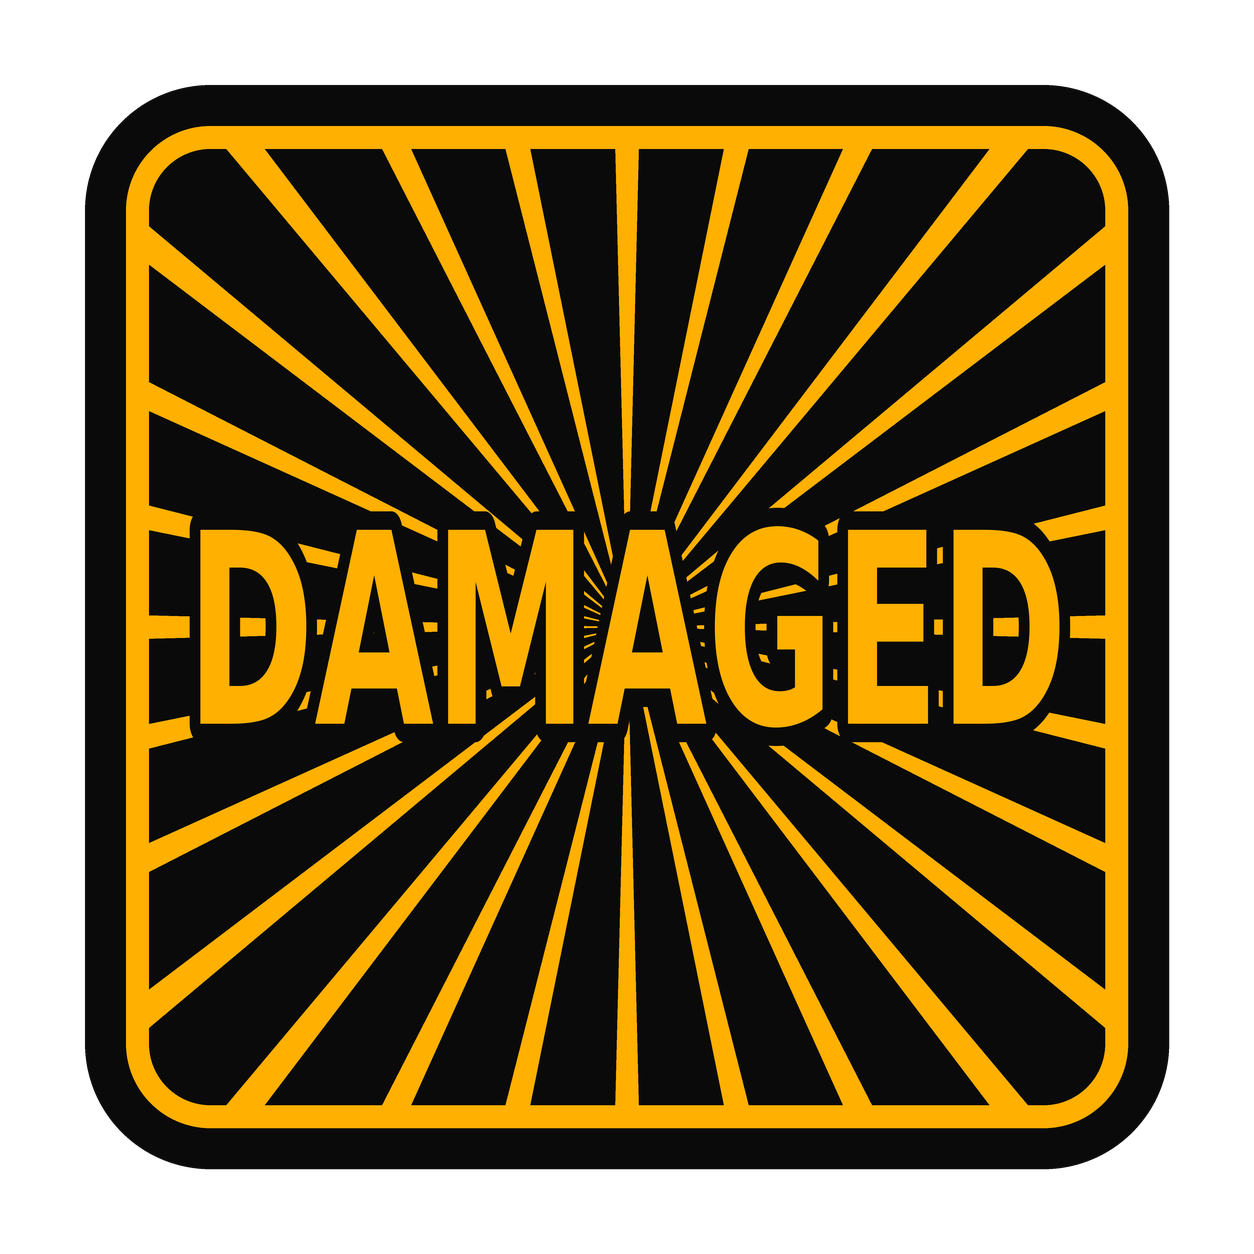
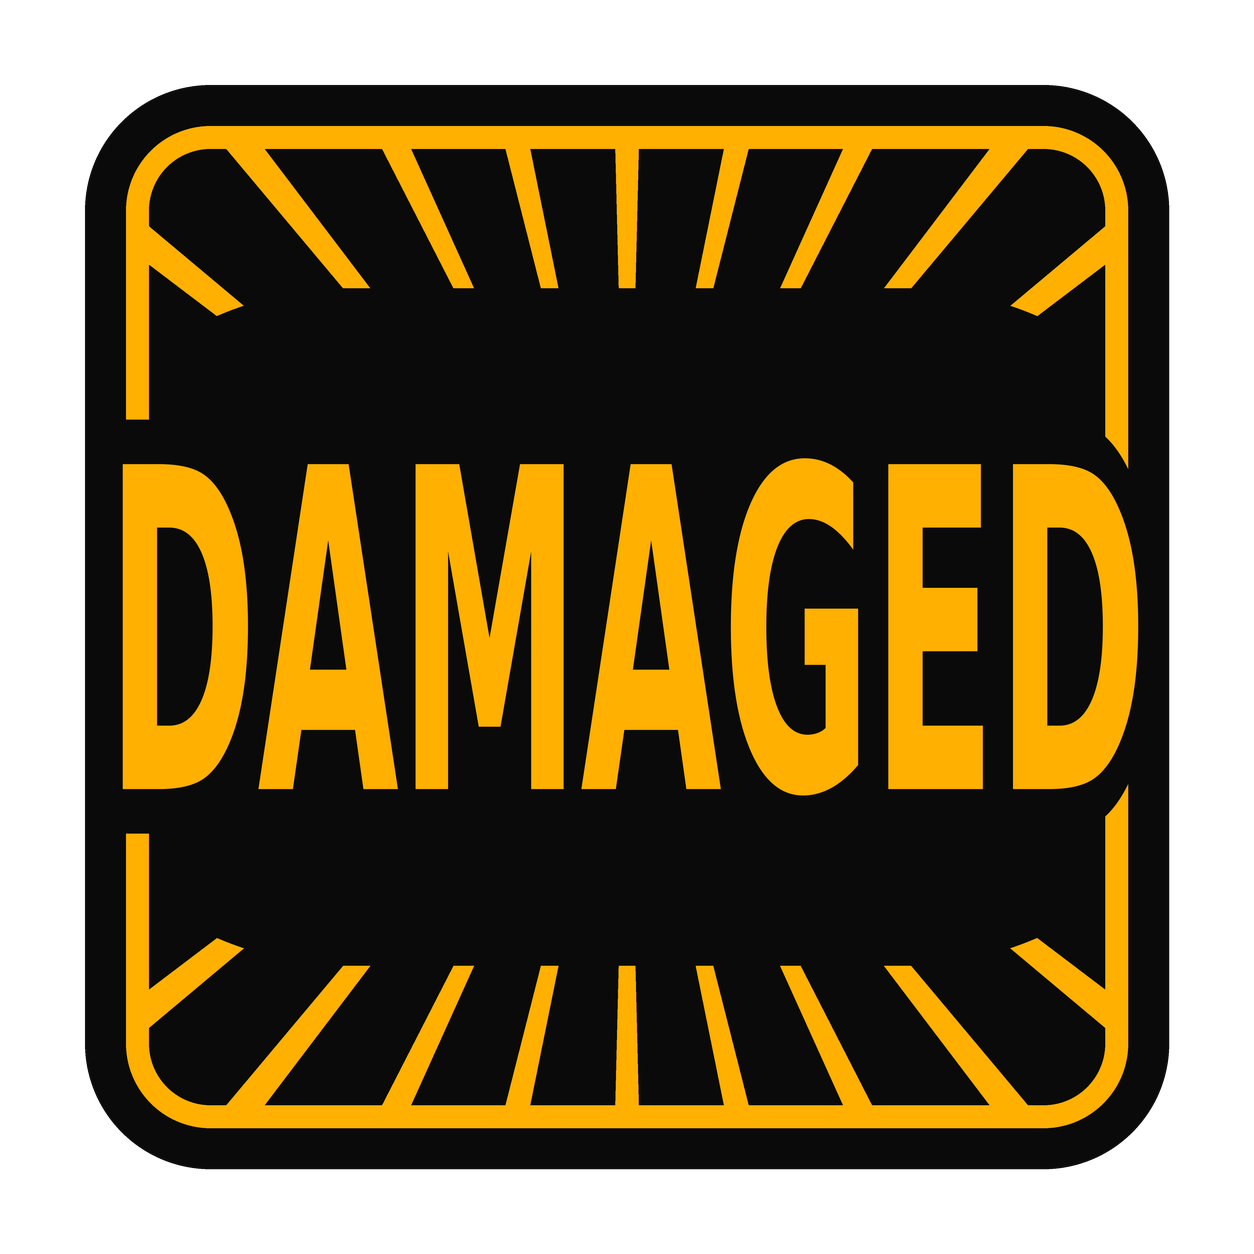
Give a Cyborg's exhaustion token count its own teal colour
The word on the Exhausted/Injured/Drained/Damaged tokens also grew and
lost the sunburst rays crossing it, since the first cut read fine at
the 1254px canvas but smeared into noise once downsampled to the 26px
the board actually draws it at.

A Cyborg's own tally now reads as one colour with their Drained badge
instead of an amber count sitting beside a teal condition -- a recolour
of the existing triangle rather than a redraw, so every anti-aliased
edge still matches the icon it sits beside on the card. Cyborg mid-count
(tokens above zero but below the Drained threshold) now also counts
toward `cyborg_condition_ids`, which used to answer only Exhausted or
Injured and so left that state drawing the amber triangle.

diff --git a/scripts/recolor_exhaust_token.py b/scripts/recolor_exhaust_token.py
@@ -1,0 +1,148 @@
+#!/usr/bin/env python3
+"""Recolor the exhaustion-token triangle teal, for a Cyborg's own tokens.
+
+`exhaust.png` is the amber "ZZZ" triangle `render.py` draws on every
+card that is carrying exhaustion tokens (`load_exhaust_icon`,
+`draw_exhaustion_badge`), human and Cyborg alike. The Cyborg's own
+*conditions* already get their own art -- Drained and Damaged, teal and
+amber, standing in for Exhausted and Injured (see "Lithium Powered" in
+docs/design/species-abilities.md) -- but until now the token counter
+itself stayed amber for everyone, which put a teal Drained badge next
+to an amber tally of the very tokens that badge is counting. This is
+the same swap one level down: a Cyborg's own token count in the same
+teal `TOKENS["drained"]` in `render_condition_tokens.py` already uses.
+
+    python3 scripts/recolor_exhaust_token.py                 # dry run
+    python3 scripts/recolor_exhaust_token.py --in-place
+    python3 scripts/recolor_exhaust_token.py --out /tmp/tokens
+
+It writes nothing unless asked, for the same reason
+`render_condition_tokens.py` doesn't: what it would overwrite is
+tracked art.
+
+**This is a recolour, not a redraw**, unlike the four condition tokens.
+`exhaust.png` has no generator in `scripts/` -- it predates
+`render_condition_tokens.py` and nothing here needs its geometry to
+change, only its one accent colour -- so reconstructing the triangle
+from scratch would risk a shape that doesn't quite match the art it is
+supposed to sit beside on the same card. Instead every pixel is read as
+a point on the line between the source's two flat colours (a near-black
+edge/text ink and the amber fill/ring, sampled off the art itself
+rather than assumed as pure `#000`/`#fff`) and re-expressed as the same
+point on the line between that same ink and the target teal -- which
+carries every anti-aliased edge across unchanged, since those pixels
+are just partway blends of the same two colours to begin with.
+
+**No numpy.** This project's `requirements.txt` doesn't carry it and no
+other script does either, so the recolour is a plain-Python pass over
+`getdata()` rather than a vectorised one -- slower, but this runs by
+hand and not in the bot's own path.
+"""
+import argparse
+import sys
+from pathlib import Path
+
+from PIL import Image
+
+PROJECT_ROOT = Path(__file__).resolve().parents[1]
+sys.path.insert(0, str(PROJECT_ROOT))
+
+EMOJI_DIR = PROJECT_ROOT / "d12ball" / "images" / "emoji"
+SOURCE = EMOJI_DIR / "exhaust.png"
+
+# The source's own two flat colours, read off its most common opaque
+# pixels rather than assumed -- it is a warm near-black, not `#000`.
+SOURCE_INK = (25, 16, 7)
+SOURCE_AMBER = (253, 209, 100)
+
+# The same teal `render_condition_tokens.py` draws Drained in --
+# TOKENS["drained"] there -- so a Cyborg's token count and their
+# Drained badge are one colour, not two shades of "teal".
+TARGET_TEAL = (0, 158, 158)
+
+
+def recolor(
+    source: Path,
+    ink: tuple[int, int, int],
+    from_color: tuple[int, int, int],
+    to_color: tuple[int, int, int],
+) -> Image.Image:
+    """
+    Re-express every pixel's position on the ink-to-`from_color` line as
+    the same position on the ink-to-`to_color` line. Alpha is untouched,
+    so a fully or partially transparent pixel stays exactly as
+    transparent.
+    """
+    image = Image.open(source).convert("RGBA")
+
+    axis = tuple(f - i for f, i in zip(from_color, ink))
+    axis_length_sq = sum(component * component for component in axis)
+    target_axis = tuple(t - i for t, i in zip(to_color, ink))
+
+    # A lookup table over every colour actually used beats recomputing
+    # the projection per pixel -- most of a token's 1.5M pixels repeat
+    # one of a handful of colours (the flat fill and a run of
+    # antialiased edges), and `Image.getcolors` is exact here since a
+    # bicolour token has far fewer than the default 256-colour cap.
+    palette = image.getcolors(maxcolors=1_000_000) or []
+    remap: dict[tuple[int, int, int, int], tuple[int, int, int, int]] = {}
+    for _, pixel in palette:
+        r, g, b, a = pixel
+        offset = (r - ink[0], g - ink[1], b - ink[2])
+        dot = sum(o * c for o, c in zip(offset, axis))
+        position = 0.0 if axis_length_sq == 0 else dot / axis_length_sq
+        position = max(0.0, min(1.0, position))
+        new_rgb = tuple(
+            round(i + position * t) for i, t in zip(ink, target_axis)
+        )
+        remap[pixel] = (*new_rgb, a)
+
+    pixels = image.load()
+    width, height = image.size
+    for y in range(height):
+        for x in range(width):
+            pixels[x, y] = remap[pixels[x, y]]
+    return image
+
+
+def main() -> int:
+    parser = argparse.ArgumentParser(description=__doc__)
+    parser.add_argument(
+        "--in-place",
+        action="store_true",
+        help="overwrite the tracked art in d12ball/images/emoji",
+    )
+    parser.add_argument(
+        "--out",
+        type=Path,
+        help="write the token to this directory instead",
+    )
+    args = parser.parse_args()
+
+    if args.in_place and args.out:
+        parser.error("--in-place and --out ask for two different things")
+
+    destination = EMOJI_DIR if args.in_place else args.out
+    if destination is not None:
+        destination.mkdir(parents=True, exist_ok=True)
+
+    token = recolor(SOURCE, SOURCE_INK, SOURCE_AMBER, TARGET_TEAL)
+    if destination is None:
+        print(f"exhaust_cyborg: teal {TARGET_TEAL} -- not written")
+        print("\nDry run. Pass --in-place to overwrite, or --out to look first.")
+        return 0
+
+    path = destination / "exhaust_cyborg.png"
+    token.save(path)
+    print(f"exhaust_cyborg: teal {TARGET_TEAL} -> {path}")
+    if args.in_place:
+        print(
+            "\nWritten. Restart the bot (render.py caches the icons at first "
+            "use) and upload it to the Developer Portal's Emojis tab if it "
+            "is wired up to its own application emoji."
+        )
+    return 0
+
+
+if __name__ == "__main__":
+    raise SystemExit(main())

diff --git a/scripts/render_condition_tokens.py b/scripts/render_condition_tokens.py
@@ -30,6 +30,19 @@ changed is the colour, which is the whole point of the rewrite --
 **injury is red and exhaustion is blue**, where it used to be the other
 way round.
 
+**The word grew and the rays behind it were cut out, 2026-09-19.** The
+first cut of this art set the word to a fifth of the face's height,
+which read fine at the 1254px canvas and turned to an unreadable smear
+at the 26px the board actually draws -- the sunburst rays crossed every
+letter at close to the same width as the strokes, so downsampling blended
+letter and ray into noise. `CLEAR_PAD_X`/`CLEAR_PAD_Y` punch a
+rounded-rectangle hole in the ray mask around the word's own box before
+the rays are composited, so a letter now sits on a plain black ground
+with nothing crossing it, and `TEXT_WIDTH`/`TEXT_HEIGHT` grew to spend
+the room that clearing freed. The badge, the ring and the sunburst's
+existence are otherwise unchanged -- this is a legibility pass, not a
+redesign.
+
 **Drained and Damaged are a Cyborg's own words for Exhausted and
 Injured** (see "Lithium Powered" in docs/living-rules.md) -- the same
 mechanic under a different name, so they get their own art rather than
@@ -86,14 +99,21 @@ RAY_HALF_ANGLE = 1.4  # degrees
 # which is what gives it the condensed face the bundled DejaVu does not
 # have. Both words fill the same box, so INJURED and EXHAUSTED read as
 # one set rather than as two sizes.
-TEXT_WIDTH = 0.72
-TEXT_HEIGHT = 0.19
+TEXT_WIDTH = 0.86
+TEXT_HEIGHT = 0.34
 
 # The word sits on the sunburst and is the same colour as it, so it
 # carries a face-coloured halo -- without it a letter crossing a ray
 # disappears into it, which is the one thing this art cannot afford at
 # 26px.
-TEXT_HALO = 0.07  # of the font size
+TEXT_HALO = 0.10  # of the font size
+
+# How far past the word's own box the ray mask is cleared, as a fraction
+# of the canvas -- wide enough that a ray's antialiased edge doesn't
+# reach a letter, narrow enough that the sunburst still reads as
+# unbroken past the word rather than cut clean in half.
+CLEAR_PAD_X = 0.06
+CLEAR_PAD_Y = 0.10
 
 # The swap. These were the other way round until 2026-08-15; red for
 # injury and blue for exhaustion is the pairing coaches expect, and the
@@ -141,7 +161,7 @@ def draw_word(
     the squash that has to do the work, or EXHAUSTED would set two
     thirds the height of INJURED and the pair would not read as a set.
     """
-    font_size = size // 4
+    font_size = size // 3
     halo = int(font_size * TEXT_HALO)
     font = ImageFont.truetype(str(FONT_PATH), font_size)
     measure = ImageDraw.Draw(Image.new("RGBA", (1, 1)))
@@ -200,6 +220,27 @@ def render_token(word: str, accent: tuple[int, int, int, int]) -> Image.Image:
         radius=max(radius - edge - ring, 0),
         fill=255,
     )
+
+    word_layer = draw_word(word, size, accent)
+    word_x = (size - word_layer.width) // 2
+    word_y = (size - word_layer.height) // 2
+
+    # Punch the word's own box (plus a little air) out of the ray mask
+    # before the rays are drawn, so no ray reaches a letter -- see "The
+    # word grew and the rays behind it were cut out" above for why a ray
+    # crossing a letter is the one thing this art cannot afford at 26px.
+    clear_pad_x = size * CLEAR_PAD_X
+    clear_pad_y = size * CLEAR_PAD_Y
+    clear_box = (
+        word_x - clear_pad_x,
+        word_y - clear_pad_y,
+        word_x + word_layer.width + clear_pad_x,
+        word_y + word_layer.height + clear_pad_y,
+    )
+    ImageDraw.Draw(face_mask).rounded_rectangle(
+        clear_box, radius=(clear_box[3] - clear_box[1]) / 2, fill=0
+    )
+
     # Masked into the rays' own alpha rather than pasted through the
     # mask: a paste copies the layer's transparency as well, which
     # takes the black face away everywhere a ray is not.
@@ -207,11 +248,7 @@ def render_token(word: str, accent: tuple[int, int, int, int]) -> Image.Image:
     rays.putalpha(ImageChops.multiply(rays.getchannel("A"), face_mask))
     token.alpha_composite(rays)
 
-    word_layer = draw_word(word, size, accent)
-    token.alpha_composite(
-        word_layer,
-        ((size - word_layer.width) // 2, (size - word_layer.height) // 2),
-    )
+    token.alpha_composite(word_layer, (word_x, word_y))
 
     return token.resize((CANVAS, CANVAS), Image.LANCZOS)
 

diff --git a/d12ball/render.py b/d12ball/render.py
@@ -387,6 +387,16 @@ EXHAUST_ICON_PATH = (
 )
 EXHAUST_ICON_SIZE = 26
 
+# A Cyborg's own token count -- the same triangle, recoloured teal by
+# `scripts/recolor_exhaust_token.py` so it reads as one thing with their
+# Drained badge rather than an amber count sitting beside a teal
+# condition. `draw_card`'s `cyborg` flag picks it the same way it picks
+# Drained over Exhausted -- see the comment on that flag below.
+EXHAUST_CYBORG_ICON_PATH = (
+    Path(__file__).resolve().parent / "images" / "emoji" / "exhaust_cyborg.png"
+)
+EXHAUST_CYBORG_ICON_SIZE = 26
+
 EXHAUSTED_ICON_PATH = (
     Path(__file__).resolve().parent / "images" / "emoji" / "exhausted.png"
 )
@@ -475,6 +485,16 @@ def load_exhaust_icon() -> Optional[Image.Image]:
     is not available so rendering can gracefully skip it.
     """
     return _load_icon(EXHAUST_ICON_PATH, EXHAUST_ICON_SIZE, "exhaust")
+
+
+def load_exhaust_cyborg_icon() -> Optional[Image.Image]:
+    """
+    Load (and cache) a Cyborg's own exhaustion token icon. Returns None
+    if the image is not available so rendering can gracefully skip it.
+    """
+    return _load_icon(
+        EXHAUST_CYBORG_ICON_PATH, EXHAUST_CYBORG_ICON_SIZE, "exhaust_cyborg"
+    )
 
 
 def load_exhausted_icon() -> Optional[Image.Image]:
@@ -998,7 +1018,16 @@ def draw_card(
 
     if exhaustion > 0:
         draw_exhaustion_badge(
-            canvas, draw, x, y, exhaustion, player, profile, row_top, row_bottom
+            canvas,
+            draw,
+            x,
+            y,
+            exhaustion,
+            player,
+            profile,
+            row_top,
+            row_bottom,
+            cyborg=cyborg,
         )
     # Injured and Exhausted share the same slot on the stats row: a
     # player who becomes injured loses the Exhausted condition (and
@@ -1006,14 +1035,14 @@ def draw_card(
     # once. The injured badge used to sit in the card's top-left
     # corner, over the name.
     #
-    # `cyborg` only ever changes which icon fills that slot, never
-    # whether one is drawn -- Drained and Damaged are Exhausted and
-    # Injured under a Cyborg's own words (see "Lithium Powered" in
-    # docs/living-rules.md), so the caller who already answered
-    # `exhausted`/`injured` off the match answers this off
-    # `RulesEngine.has_species_ability` the same way `species_icons`
-    # is answered, rather than this module reading the player's own
-    # species to decide it.
+    # `cyborg` only ever changes which icon fills that slot (and, on the
+    # exhaustion badge above, which triangle), never whether one is
+    # drawn -- Drained and Damaged are Exhausted and Injured under a
+    # Cyborg's own words (see "Lithium Powered" in docs/living-rules.md),
+    # so the caller who already answered `exhausted`/`injured` off the
+    # match answers this off `RulesEngine.has_species_ability` the same
+    # way `species_icons` is answered, rather than this module reading
+    # the player's own species to decide it.
     if injured:
         if cyborg:
             draw_damaged_badge(canvas, draw, x, y, row_top, row_bottom)
@@ -1036,6 +1065,7 @@ def draw_exhaustion_badge(
     profile: RoleProfile,
     row_top: int,
     row_bottom: int,
+    cyborg: bool = False,
 ) -> None:
     """
     Draws the exhaust-token badge between the skill numbers and the role
@@ -1044,8 +1074,11 @@ def draw_exhaustion_badge(
     the horizontal center is computed per-card (from the actual offense
     digit width and role label width) to keep the overlap as small as
     possible instead of guessing a fixed position.
+
+    `cyborg` only ever changes which icon fills the slot, the same as
+    `draw_card`'s own flag -- see the comment there.
     """
-    icon = load_exhaust_icon()
+    icon = load_exhaust_cyborg_icon() if cyborg else load_exhaust_icon()
 
     offense_bbox = draw.textbbox(
         (0, 0), str(profile.offense), font=FONT_CARD_STAT

diff --git a/cogs/d12ball/presentation.py b/cogs/d12ball/presentation.py
@@ -978,17 +978,18 @@ class PresentationMixin:
         match: MatchState,
     ) -> frozenset[str]:
         """
-        Which of the currently Exhausted or Injured players are Cyborgs
-        playing with their own drain -- the answer `render.py`'s
-        `cyborg_ids` needs to draw Drained/Damaged instead of
-        Exhausted/Injured, without this module handing the renderer a
-        `game` or a species to read itself. See "Lithium Powered" in
+        Which of the players currently Exhausted, Injured or carrying an
+        exhaustion token are Cyborgs playing with their own drain -- the
+        answer `render.py`'s `cyborg_ids` needs to draw Drained/Damaged
+        instead of Exhausted/Injured and the teal token count instead of
+        the amber one, without this module handing the renderer a `game`
+        or a species to read itself. See "Lithium Powered" in
         docs/design/species-abilities.md and the `species_icons` flag
         this mirrors.
         """
         return frozenset(
             player_id
-            for player_id in match.exhausted | match.injured
+            for player_id in match.exhausted | match.injured | match.exhaustion.keys()
             if self.engine.has_species_ability(
                 game, player_id, SPECIES_CYBORG,
             )

diff --git a/docs/design/species-abilities.md b/docs/design/species-abilities.md
@@ -304,6 +304,29 @@ missing other half for Injured, scoped the same way.
   the author's read on a first draft using the exact team hex was that the
   lettering got lost in the sunburst behind it at the 26px the board actually
   draws it.
+- **The exhaustion-token counter got a Cyborg variant the same way,
+  2026-09-19** -- `exhaust_cyborg.png`, in the same teal as Drained, so a
+  Cyborg's own tally and their Drained badge read as one colour rather than
+  an amber count sitting beside a teal condition. Unlike the four condition
+  tokens above, this one is a **recolour, not a redraw**:
+  `exhaust.png` (the amber triangle `draw_exhaustion_badge` draws on any
+  card carrying tokens at all) predates `render_condition_tokens.py` and has
+  no generator of its own, so `scripts/recolor_exhaust_token.py` reads the
+  source's two flat colours (a warm near-black ink and the amber fill,
+  sampled off the art rather than assumed) and re-expresses every pixel at
+  the same position on the ink-to-teal line -- which carries every
+  anti-aliased edge across exactly, rather than risking a redrawn triangle
+  that doesn't quite match the one it sits beside on the card.
+  `draw_card`'s `cyborg` flag now also picks this icon in
+  `draw_exhaustion_badge`, the same "which icon, never whether one is
+  drawn" rule as Drained/Damaged above. That meant widening what
+  `D12Ball.cyborg_condition_ids` answers: it used to be "currently
+  Exhausted or Injured", which left a Cyborg mid-count (tokens above zero
+  but below `CYBORG_DRAINED_AT`) drawing the amber triangle, so it now
+  unions in `match.exhaustion.keys()` too. Board art only, for now -- it
+  has no application emoji of its own, since nothing in the cog's own text
+  messages names an exhaustion *count* the way `describe_exhaustion_gain`
+  names the Drained/Exhausted condition.
 
 **Overdrive is the only thing in the game declared before a roll**, which is
 what it cost to build. Every roll already sits behind a button any coach may
